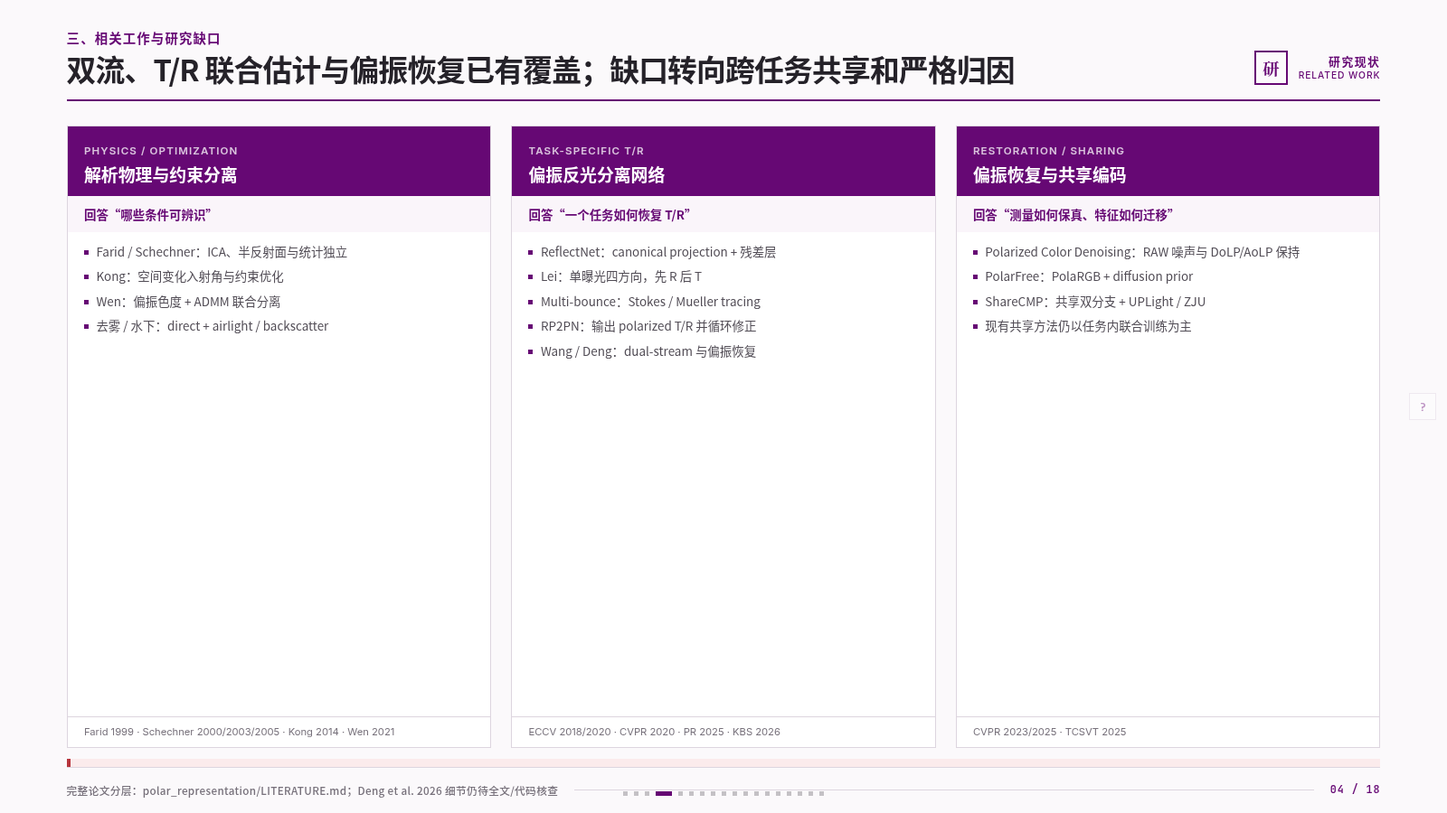
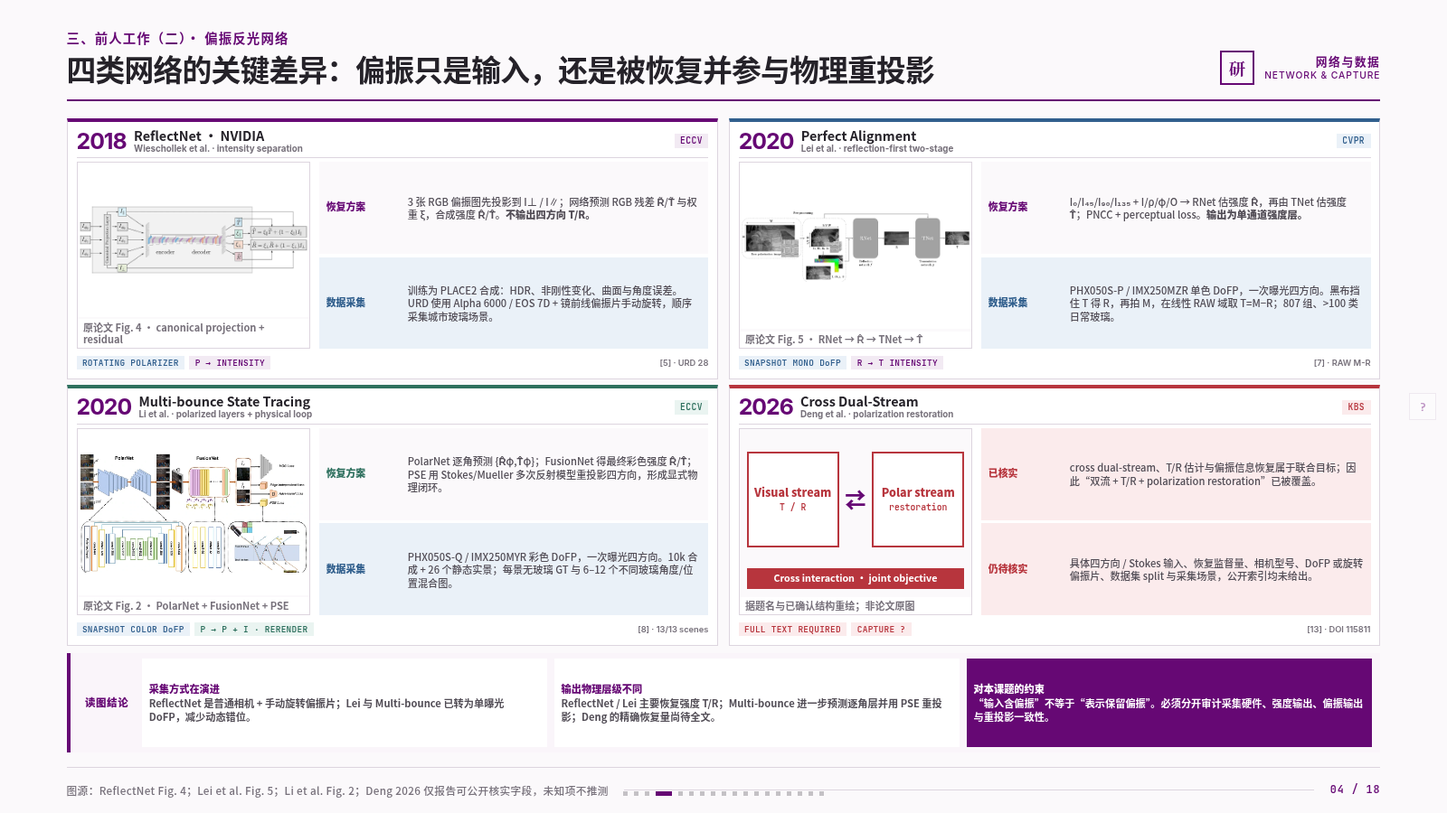
docs: compare polarized reflection networks

diff --git a/demo/tsinghua-ppt/index.html b/demo/tsinghua-ppt/index.html
@@ -485,6 +485,43 @@
   .classical-inspiration strong{font:800 clamp(11px,.72vw,14px)/1.2 var(--mono);letter-spacing:.05em}
   .classical-inspiration span{font:650 clamp(10px,.67vw,13px)/1.32 var(--sans)}
 
+  /* 04 · 偏振反光网络与数据采集 */
+  .network-work-layout{height:100%;display:grid;grid-template-columns:1fr;grid-template-rows:minmax(0,1fr) 12.2vh;gap:.9vh}
+  .network-paper-grid{min-height:0;display:grid;grid-template-columns:1fr 1fr;grid-template-rows:1fr 1fr;gap:.72vh .72vw}
+  .network-paper{min-height:0;display:grid;grid-template-rows:auto minmax(0,1fr) auto;gap:.48vh;padding:.68vh .62vw;border:1px solid var(--line);border-top:4px solid var(--accent);background:#fff}
+  .network-paper:nth-child(2){border-top-color:var(--info)}.network-paper:nth-child(3){border-top-color:var(--success)}.network-paper:nth-child(4){border-top-color:var(--danger)}
+  .network-paper-head{display:grid;grid-template-columns:auto minmax(0,1fr) auto;gap:.52vw;align-items:center;padding-bottom:.38vh;border-bottom:1px solid var(--line)}
+  .network-paper-head .year{color:var(--accent);font:800 clamp(21px,1.55vw,30px)/1 var(--sans-latin);letter-spacing:-.04em}
+  .network-paper-head h2{font:750 clamp(14px,.9vw,17px)/1.15 var(--sans);color:var(--ink)}
+  .network-paper-head p{margin-top:.16vh;color:var(--muted);font:650 clamp(9px,.61vw,11px)/1.12 var(--sans-latin)}
+  .network-paper-head .venue{padding:.36vh .4vw;background:var(--accent-soft);color:var(--accent);font:800 clamp(9px,.6vw,11px)/1 var(--mono);letter-spacing:.05em;white-space:nowrap}
+  .network-paper:nth-child(2) .venue{background:var(--info-soft);color:var(--info)}.network-paper:nth-child(3) .venue{background:var(--success-soft);color:var(--success)}.network-paper:nth-child(4) .venue{background:var(--danger-soft);color:var(--danger)}
+  .network-paper-main{min-height:0;display:grid;grid-template-columns:37% 1fr;gap:.62vw}
+  .network-method-figure{min-height:0;display:grid;grid-template-rows:minmax(0,1fr) auto;gap:.32vh;border:1px solid var(--line);background:var(--paper-soft);overflow:hidden}
+  .network-method-figure img{width:100%;height:100%;display:block;object-fit:contain;background:#fff}
+  .network-method-figure figcaption,.network-method-caption{padding:.32vh .4vw;background:#fff;color:var(--muted);font:600 clamp(11px,.69vw,13px)/1.18 var(--sans)}
+  .network-detail-stack{min-height:0;display:grid;grid-template-rows:1fr 1fr;gap:.42vh}
+  .network-detail{display:grid;grid-template-columns:5.15em 1fr;gap:.48vw;align-items:center;padding:.48vh .48vw;background:var(--paper-soft)}
+  .network-detail strong{color:var(--accent);font:800 clamp(10px,.68vw,13px)/1.2 var(--mono)}
+  .network-detail p{font:550 clamp(11px,.7vw,13px)/1.29 var(--sans);color:var(--ink-soft)}
+  .network-detail.capture{background:var(--info-soft)}.network-detail.capture strong{color:var(--info)}
+  .network-paper:nth-child(3) .network-detail:first-child strong{color:var(--success)}
+  .network-paper.deng .network-detail{background:var(--danger-soft)}.network-paper.deng .network-detail strong{color:var(--danger)}
+  .network-paper-foot{display:flex;align-items:center;gap:.32vw;min-height:2.45vh;overflow:hidden}
+  .network-chip{padding:.34vh .4vw;background:var(--accent-soft);color:var(--accent);font:800 clamp(9px,.59vw,11px)/1 var(--mono);letter-spacing:.03em;white-space:nowrap}
+  .network-chip.capture{background:var(--info-soft);color:var(--info)}.network-chip.physics{background:var(--success-soft);color:var(--success)}.network-chip.pending{background:var(--danger-soft);color:var(--danger)}
+  .network-cite{margin-left:auto;color:var(--muted);font:600 clamp(9px,.58vw,11px)/1 var(--sans-latin);white-space:nowrap}
+  .cross-stream-figure{height:100%;display:grid;grid-template-columns:1fr auto 1fr;grid-template-rows:1fr auto;gap:.52vh .42vw;align-items:center;padding:.72vh .5vw;background:var(--paper-soft)}
+  .cross-stream{height:74%;display:grid;place-items:center;align-content:center;gap:.42vh;border:2px solid var(--danger);background:#fff;text-align:center;color:var(--danger)}
+  .cross-stream strong{font:800 clamp(12px,.78vw,15px)/1.15 var(--sans)}.cross-stream span{font:700 clamp(9px,.61vw,11px)/1.15 var(--mono)}
+  .cross-stream-arrow{color:var(--accent);font:800 clamp(21px,1.45vw,28px)/1 var(--sans)}
+  .cross-stream-output{grid-column:1/4;padding:.55vh .45vw;background:var(--danger);color:#fff;text-align:center;font:750 clamp(10px,.67vw,13px)/1.2 var(--sans)}
+  .network-audit{min-height:0;display:grid;grid-template-columns:auto repeat(3,1fr);gap:.5vw;align-items:stretch;padding:.65vh .62vw;background:var(--accent-pale);border-left:4px solid var(--accent)}
+  .network-audit>strong{display:grid;place-items:center;padding:0 .4vw;color:var(--accent);font:800 clamp(11px,.72vw,14px)/1.15 var(--mono);letter-spacing:.05em}
+  .network-audit-item{display:grid;align-content:center;padding:.45vh .5vw;background:#fff;font:600 clamp(11px,.7vw,13px)/1.27 var(--sans);color:var(--ink-soft)}
+  .network-audit-item b{display:block;margin-bottom:.2vh;color:var(--accent);font-weight:800}
+  .network-audit-item:last-child{background:var(--accent);color:#fff}.network-audit-item:last-child b{color:#fff}
+
   /* 03 · 系统、协议与 Gate */
   .protocol-layout{height:100%;display:grid;grid-template-rows:auto 1fr;gap:1.15vh}
   .compact-flow{display:grid;grid-template-columns:1fr auto 1.1fr auto 1.1fr auto 1fr;gap:.55vw;align-items:stretch}
@@ -885,14 +922,17 @@
   </div></main><footer class="thu-footer"><span>原图均为学术引用节选并在 SOURCES.md 标注图号；Kong 框图为本项目依据 TPAMI 2014 方法描述重绘</span><span class="thu-footer-line"></span><span class="thu-page-no">03 / 18</span></footer></div>
 </section>
 
-<section class="slide soft" data-layout="THU04" data-animate="academic" data-slide-id="related-work-map">
-  <div class="thu-page"><header class="thu-header"><div><div class="thu-section">三、相关工作与研究缺口</div><h1 class="thu-title">双流、T/R 联合估计与偏振恢复已有覆盖；缺口转向跨任务共享和严格归因</h1></div><div class="thu-brand"><div class="thu-brand-mark">研</div><div class="thu-brand-copy"><strong>研究现状</strong><span>Related Work</span></div></div></header>
-  <main class="thu-content"><div class="research-map" data-anim>
-    <article class="research-lane"><div class="lane-head"><span>PHYSICS / OPTIMIZATION</span><h3>解析物理与约束分离</h3></div><div class="lane-cue">回答“哪些条件可辨识”</div><ul><li>Farid / Schechner：ICA、半反射面与统计独立</li><li>Kong：空间变化入射角与约束优化</li><li>Wen：偏振色度 + ADMM 联合分离</li><li>去雾 / 水下：direct + airlight / backscatter</li></ul><div class="lane-foot">Farid 1999 · Schechner 2000/2003/2005 · Kong 2014 · Wen 2021</div></article>
-    <article class="research-lane"><div class="lane-head"><span>TASK-SPECIFIC T/R</span><h3>偏振反光分离网络</h3></div><div class="lane-cue">回答“一个任务如何恢复 T/R”</div><ul><li>ReflectNet：canonical projection + 残差层</li><li>Lei：单曝光四方向，先 R 后 T</li><li>Multi-bounce：Stokes / Mueller tracing</li><li>RP2PN：输出 polarized T/R 并循环修正</li><li>Wang / Deng：dual-stream 与偏振恢复</li></ul><div class="lane-foot">ECCV 2018/2020 · CVPR 2020 · PR 2025 · KBS 2026</div></article>
-    <article class="research-lane"><div class="lane-head"><span>RESTORATION / SHARING</span><h3>偏振恢复与共享编码</h3></div><div class="lane-cue">回答“测量如何保真、特征如何迁移”</div><ul><li>Polarized Color Denoising：RAW 噪声与 DoLP/AoLP 保持</li><li>PolarFree：PolaRGB + diffusion prior</li><li>ShareCMP：共享双分支 + UPLight / ZJU</li><li>现有共享方法仍以任务内联合训练为主</li></ul><div class="lane-foot">CVPR 2023/2025 · TCSVT 2025</div></article>
-  </div><div class="callout danger" style="margin-top:1.35vh"><strong>不能再声称：</strong>双分支、同时估计 T/R、加入偏振恢复就是创新。<strong>待验证缺口：</strong>同一物理编码器冻结跨任务迁移，并通过 S₀ 重复、噪声副本、打乱 (Q,U) 与失效门控完成归因。</div></main>
-  <footer class="thu-footer"><span>完整论文分层：polar_representation/LITERATURE.md；Deng et al. 2026 细节仍待全文/代码核查</span><span class="thu-footer-line"></span><span class="thu-page-no">04 / 18</span></footer></div>
+<section class="slide soft" data-layout="THU04" data-animate="academic" data-slide-id="polarized-reflection-networks">
+  <div class="thu-page"><header class="thu-header"><div><div class="thu-section">三、前人工作（二）· 偏振反光网络</div><h1 class="thu-title">四类网络的关键差异：偏振只是输入，还是被恢复并参与物理重投影</h1></div><div class="thu-brand"><div class="thu-brand-mark">研</div><div class="thu-brand-copy"><strong>网络与数据</strong><span>NETWORK &amp; CAPTURE</span></div></div></header>
+  <main class="thu-content tight"><div class="network-work-layout research-map">
+    <div class="network-paper-grid" data-anim>
+      <article class="network-paper"><div class="network-paper-head"><span class="year">2018</span><div><h2>ReflectNet · NVIDIA</h2><p>Wieschollek et al. · intensity separation</p></div><span class="venue">ECCV</span></div><div class="network-paper-main"><figure class="network-method-figure"><img src="images/04-reflectnet-architecture.webp" data-image-slot="thu04-reflectnet" alt="ReflectNet 原论文图 4，包含 canonical projection layer、编码器解码器和残差层输出"><figcaption>原论文 Fig. 4 · canonical projection + residual</figcaption></figure><div class="network-detail-stack"><div class="network-detail"><strong>恢复方案</strong><p>3 张 RGB 偏振图先投影到 I⊥ / I∥；网络预测 RGB 残差 R̃/T̃ 与权重 ξ，合成强度 R̂/T̂。<b>不输出四方向 T/R。</b></p></div><div class="network-detail capture"><strong>数据采集</strong><p>训练为 PLACE2 合成：HDR、非刚性变化、曲面与角度误差。URD 使用 Alpha 6000 / EOS 7D + 镜前线偏振片手动旋转，顺序采集城市玻璃场景。</p></div></div></div><div class="network-paper-foot"><span class="network-chip capture">ROTATING POLARIZER</span><span class="network-chip">P → INTENSITY</span><span class="network-cite">[5] · URD 28</span></div></article>
+      <article class="network-paper"><div class="network-paper-head"><span class="year">2020</span><div><h2>Perfect Alignment</h2><p>Lei et al. · reflection-first two-stage</p></div><span class="venue">CVPR</span></div><div class="network-paper-main"><figure class="network-method-figure"><img src="images/04-lei-two-stage.webp" data-image-slot="thu04-lei-two-stage" alt="Lei 等原论文图 5，四方向偏振预处理后先经 RNet 估计反射，再经 TNet 估计透射"><figcaption>原论文 Fig. 5 · RNet → R̂ → TNet → T̂</figcaption></figure><div class="network-detail-stack"><div class="network-detail"><strong>恢复方案</strong><p>I₀/I₄₅/I₉₀/I₁₃₅ + I/ρ/φ/O → RNet 估强度 R̂，再由 TNet 估强度 T̂；PNCC + perceptual loss。<b>输出为单通道强度层。</b></p></div><div class="network-detail capture"><strong>数据采集</strong><p>PHX050S-P / IMX250MZR 单色 DoFP，一次曝光四方向。黑布挡住 T 得 R，再拍 M，在线性 RAW 域取 T=M−R；807 组、&gt;100 类日常玻璃。</p></div></div></div><div class="network-paper-foot"><span class="network-chip capture">SNAPSHOT MONO DoFP</span><span class="network-chip">R → T INTENSITY</span><span class="network-cite">[7] · RAW M-R</span></div></article>
+      <article class="network-paper"><div class="network-paper-head"><span class="year">2020</span><div><h2>Multi-bounce State Tracing</h2><p>Li et al. · polarized layers + physical loop</p></div><span class="venue">ECCV</span></div><div class="network-paper-main"><figure class="network-method-figure"><img src="images/04-multibounce-architecture.webp" data-image-slot="thu04-multibounce" alt="Multi-bounce 原论文图 2，PolarNet、FusionNet 与偏振仿真引擎构成闭环"><figcaption>原论文 Fig. 2 · PolarNet + FusionNet + PSE</figcaption></figure><div class="network-detail-stack"><div class="network-detail"><strong>恢复方案</strong><p>PolarNet 逐角预测 {R̂φ,T̂φ}；FusionNet 得最终彩色强度 R̂/T̂；PSE 用 Stokes/Mueller 多次反射模型重投影四方向，形成显式物理闭环。</p></div><div class="network-detail capture"><strong>数据采集</strong><p>PHX050S-Q / IMX250MYR 彩色 DoFP，一次曝光四方向。10k 合成 + 26 个静态实景；每景无玻璃 GT 与 6–12 个不同玻璃角度/位置混合图。</p></div></div></div><div class="network-paper-foot"><span class="network-chip capture">SNAPSHOT COLOR DoFP</span><span class="network-chip physics">P → P + I · RERENDER</span><span class="network-cite">[8] · 13/13 scenes</span></div></article>
+      <article class="network-paper deng"><div class="network-paper-head"><span class="year">2026</span><div><h2>Cross Dual-Stream</h2><p>Deng et al. · polarization restoration</p></div><span class="venue">KBS</span></div><div class="network-paper-main"><div class="network-method-figure"><div class="cross-stream-figure"><div class="cross-stream"><strong>Visual stream</strong><span>T / R</span></div><span class="cross-stream-arrow">⇄</span><div class="cross-stream"><strong>Polar stream</strong><span>restoration</span></div><div class="cross-stream-output">Cross interaction · joint objective</div></div><div class="network-method-caption">据题名与已确认结构重绘；非论文原图</div></div><div class="network-detail-stack"><div class="network-detail"><strong>已核实</strong><p>cross dual-stream、T/R 估计与偏振信息恢复属于联合目标；因此“双流 + T/R + polarization restoration”已被覆盖。</p></div><div class="network-detail"><strong>仍待核实</strong><p>具体四方向 / Stokes 输入、恢复监督量、相机型号、DoFP 或旋转偏振片、数据集 split 与采集场景，公开索引均未给出。</p></div></div></div><div class="network-paper-foot"><span class="network-chip pending">FULL TEXT REQUIRED</span><span class="network-chip pending">CAPTURE ?</span><span class="network-cite">[13] · DOI 115811</span></div></article>
+    </div>
+    <div class="network-audit" data-anim><strong>读图结论</strong><div class="network-audit-item"><b>采集方式在演进</b>ReflectNet 是普通相机 + 手动旋转偏振片；Lei 与 Multi-bounce 已转为单曝光 DoFP，减少动态错位。</div><div class="network-audit-item"><b>输出物理层级不同</b>ReflectNet / Lei 主要恢复强度 T/R；Multi-bounce 进一步预测逐角层并用 PSE 重投影；Deng 的精确恢复量尚待全文。</div><div class="network-audit-item"><b>对本课题的约束</b>“输入含偏振”不等于“表示保留偏振”。必须分开审计采集硬件、强度输出、偏振输出与重投影一致性。</div></div>
+  </div></main><footer class="thu-footer"><span>图源：ReflectNet Fig. 4；Lei et al. Fig. 5；Li et al. Fig. 2；Deng 2026 仅报告可公开核实字段，未知项不推测</span><span class="thu-footer-line"></span><span class="thu-page-no">04 / 18</span></footer></div>
 </section>
 
 <section class="slide" data-layout="THU11" data-animate="academic" data-slide-id="system-protocol">
@@ -1047,7 +1087,7 @@ const SPEAKER_NOTES = [
   {id:'cover',title:'候选新主线与当前边界',section:'开场',minutes:0.4,purpose:'交代共享偏振表示的新主线、已完成 P0–P3 和尚未训练的边界',talk:['候选主线不再是只优化一个 OCR 或去反光任务，而是学习可冻结复用的偏振表示','反光层分离是第一个源任务，水下与道路分割是下游候选','目前只完成公开数据和解析仿真的 P0–P3；没有共享编码器结果，也没有自采数据'],transition:'先说明方向如何从前期深度和识读代理演进到共享表示'},
   {id:'direction-change',title:'为什么需要偏振相机',section:'物理基础',minutes:1.8,purpose:'按“RGB 场景失效—DoFP 新观测—Fresnel 线索—BRDF 复杂度—T/R 欠定恢复”建立完整动机',talk:['先看顶部五类场景：工业高光会遮笔画，雾和水下把 direct 与散射叠加，车牌有逆反射和夜间眩光，玻璃让 transmission 与 reflection 同像素叠加；RGB 只测总强度，难区分成分','LUCID Phoenix PHX050S-QC / Sony IMX250MYR 用 Bayer 与四方向微偏振阵列一次曝光获取 I0、I45、I90、I135；经过标定和重建得到 S0、S1、S2，因此能合成任意虚拟检偏角并计算 DoLP/AoLP','Fresnel 图说明 s/p 反射系数随入射角不同，Brewster 角附近 R 的偏振线索最强；这决定图像中 R 的 DoLP 和最有利检偏角','BRDF 图说明真实 R 还由粗糙度 D、Fresnel F、遮蔽 G 和微法向分布共同决定，所以高光宽度、位置、颜色和偏振在空间上变化，不能套一个全局角度','最后观测只有三个独立 Stokes 量，而 T、R 各自至少有三个未知量；偏振增加信息但问题仍欠定，需要物理重组、数据先验和质量 q，在饱和或低 DoLP 时回退或拒绝'],transition:'下一页先看传统方法如何从 ICA 逐步加入 Fresnel、统计分布和空间变化约束',cue:'按页面从上到下、从左到右讲：五场景 → 相机 → Fresnel → BRDF → 3<6'},
   {id:'classical-reflection-separation',title:'传统偏振反光分离演进',section:'问题与文献',minutes:1.7,purpose:'用四篇代表工作说明传统路线如何从全局 ICA 逐步加入 Fresnel、统计分布和空间变化约束',talk:['Farid 与 Adelson 把两幅正交检偏图视为同一 T/R 的不同线性混合，并用 ICA 寻找统计独立源；这是最经典的“光学调制 + 盲源分离”起点','Schechner 的 ICCV 1999 工作不再让混合矩阵任意变化，而是用 Fresnel 系数把权重绑定到玻璃入射角；通过重建层去相关估计角度，并解决 ICA 的层标签歧义','JOSA A 2000 进一步考虑双表面内部反射，以互信息替代只看二阶矩的相关系数，同时系统分析噪声、角度误差和入射平面歧义','Kong 2014 使用三张相差 45 度的偏振图，把入射角和入射平面方向扩展为空间变化系数场，再通过多尺度约束优化求分离','共同边界是先验失配：T/R 相似文理或相关、低偏振与噪声、多次反射和动态错位都会破坏解析假设；对深度学习的启发不是丢掉物理，而是让网络补充局部结构与语义先验，并保留物理重组和质量门控'],transition:'传统路线已经把可辨识条件讲清楚，下一页再看深度网络如何用数据先验处理更复杂的真实场景',cue:'按顶部约束轴从左到右讲四篇工作，最后落到下方“统计 / 测量 / 模型失配”'},
-  {id:'related-work-map',title:'相关工作与研究缺口',section:'问题与文献',minutes:1.2,purpose:'按路线梳理前人工作，并避免把已有双流/T-R/偏振恢复误写成创新',talk:['传统路线从 ICA、半反射面到空间变化入射角和 ADMM，主要回答可辨识条件','任务网络已经覆盖 canonical projection、先 R 后 T、多次反射 tracing、polarized T/R、dual-stream 和 polarization restoration','PolarFree 提供大规模数据，ShareCMP 提供共享双分支与下游接口','因此候选差异必须是冻结跨任务、严格负对照归因和失效质量门控；Deng 2026 的全文细节仍需核查'],transition:'基于这个缺口，下一页给出最小方法和不允许跳过的 Gate'},
+  {id:'polarized-reflection-networks',title:'偏振反光网络与采集方案',section:'问题与文献',minutes:1.7,purpose:'同口径比较四篇网络的偏振输入、强度/偏振恢复层级，以及旋转偏振片与 DoFP 数据采集差异',talk:['ReflectNet 使用普通消费相机前的旋转线偏振片顺序拍摄三角度，通过 canonical projection 得到 I 垂直与 I 平行，再预测 RGB 强度 T/R 残差与融合权重；训练数据主要由 PLACE2 合成，URD 是城市玻璃场景实拍','Lei 2020 改用 PHX050S-P 与 IMX250MZR 单色 DoFP，一次曝光得到四方向 RAW；网络先估计强度 R，再估计强度 T，不恢复四方向 T/R','Lei 的 M-R 采集用黑布挡住透射场得到 R，再移除黑布拍 M，并在线性 RAW 域计算 T=M-R；数据包含 807 组和超过 100 种日常玻璃','Multi-bounce 使用 PHX050S-Q 与 IMX250MYR 彩色 DoFP；PolarNet 逐角预测 polarized T/R，FusionNet 输出最终彩色强度层，PSE 再用 Stokes/Mueller 多次反射模型重投影四方向；真实数据为 26 个静态场景并配合 10k 合成数据','Deng 2026 已确认 cross dual-stream、T/R 估计与 polarization restoration 联合方向，但开放索引无法核实具体输入、恢复监督、相机与采集场景；页面因此明确保留未知项'],transition:'已有网络说明“偏振输入、强度恢复、偏振恢复”必须拆开定义，下一页据此给出共享编码器的最小输出与公平 Gate',cue:'按每张卡先讲恢复方案，再讲蓝色的数据采集栏；Deng 卡只讲已核实和待核实边界'},
   {id:'system-protocol',title:'候选方法与验证协议',section:'方法与协议',minutes:1.0,purpose:'说明物理 stem、共享编码器、任务头、负对照和 Gate A0',talk:['先把四方向校准为 Stokes 与质量，再进入共享编码器；decoder 保持小且同容量','物理约束包括重投影、角度等变和层重组，不能只看 PSNR','负对照只破坏一个因素：重复 S0、噪声副本、跨样本打乱 Q,U','P0–P3 未完成前不训练；通过后也只跑轻量 pilot，不先上 diffusion'],transition:'先集中展示本轮新增的公开数据与仿真工作量'},
   {id:'workload-audit',title:'已完成资产与本轮工作量',section:'方法与协议',minutes:0.9,purpose:'区分历史资产和新主线 P0–P3 产物',talk:['旧的 SHDocs、PDD、HAMMER 不删除，但只承担协议、反例和测量资产角色','PolaRGB 远端 revision、33,055 个文件和 59/8 场景口径已经冻结','P3 已扫描反射/透射偏振、Fresnel、噪声、仪器和 MPFA；新旧测试分别 13 和 103 项通过','完整 processed 数据仍在仓库外下载，不能把 test probe 讲成 P1 final'],transition:'接下来三页用最短时间回顾旧代理实验为何仍有方法论价值'},
   {id:'e0-clean-ocr',title:'前期代理 E0 · 清晰 OCR',section:'前期代理',minutes:0.7,purpose:'保留任务格式会先决定软件上限这一前期观察',talk:['固定日期格式的清晰软件上限高，随机序列明显更低','它说明任务定义和格式约束不能在训练后补救','该页是旧工业识读代理，不是共享编码器结果'],transition:'旧代理 E1 对新主线仍直接相关：重建并不是中性预处理'},

diff --git a/demo/tsinghua-ppt/images/SOURCES.md b/demo/tsinghua-ppt/images/SOURCES.md
@@ -1,6 +1,6 @@
 # PPT 图片来源与许可
 
-以下第一组场景图片下载自 Wikimedia Commons，用于本项目学术汇报中的工业场景示意。它们不是本项目实验数据。本文档记录原文件、作者和许可；本地 WebP 仅做尺寸压缩和格式转换。第 3 页另含论文原图节选，单独记录在后表。
+以下第一组场景图片下载自 Wikimedia Commons，用于本项目学术汇报中的工业场景示意。它们不是本项目实验数据。本文档记录原文件、作者和许可；本地 WebP 仅做尺寸压缩和格式转换。第 3–4 页另含论文原图节选，单独记录在后表。
 
 | 本地文件 | 原文件与作者 | 许可 |
 |---|---|---|
@@ -15,17 +15,22 @@
 
 图注中的“Wikimedia Commons”指向本清单。后续获得自有喷码工位、工件和四方向偏振照片后，应优先替换这些场景示意图，并保留“网络示意图”和“本项目实验数据”的明确区分。
 
-## 第 3 页论文图节选
+## 第 3–4 页论文图节选
 
 以下图像只用于说明传统偏振分离方法的历史演进，均在页面内写明作者、年份、出处和图号；版权归原作者与出版方。它们不是本项目实验结果，也不用于重新评测论文性能。
 
 | 本地文件 | 原始论文与图号 | 本地处理 |
 |---|---|---|
-| `03-farid-ica.webp` | H. Farid and E. H. Adelson, *Separating Reflections from Images by Use of Independent Components Analysis*, JOSA A 16(9), 1999, [author PDF](https://hfarid.org/downloads/publications/josa99.pdf), Figs. 8–9 | 从论文图中节选两幅偏振混合观测与 ICA 输出，统一灰度、并排排版；未改变图像内容 |
+| `03-farid-ica.webp` | H. Farid and E. H. Adelson, *Separating Reflections from Images by Use of Independent Component Analysis*, JOSA A 16(9), 1999, [author PDF](https://hfarid.org/downloads/publications/josa99.pdf), Figs. 8–9 | 从论文图中节选两幅偏振混合观测与 ICA 输出，统一灰度、并排排版；未改变图像内容 |
 | `03-schechner-decorrelation.webp` | Y. Y. Schechner, J. Shamir and N. Kiryati, *Polarization-Based Decorrelation of Transparent Layers: The Inclination Angle of an Invisible Surface*, ICCV 1999, [author PDF](https://webee.technion.ac.il/people/yoav/publications/iccv99polart2.pdf), Figs. 5 and 7 | 节选检偏观测与重建层，统一灰度、并排排版；未改变图像内容 |
 | `03-schechner-mi-minima.webp` | Y. Y. Schechner, J. Shamir and N. Kiryati, *Polarization and Statistical Analysis of Scenes Containing a Semireflector*, JOSA A 17(2), 2000, [author PDF](https://webee.technion.ac.il/people/yoav/publications/polarjosa.pdf), Fig. 5 | 节选互信息曲线的极小值区域，转换为 WebP 并轻微增强投影对比度；曲线内容未改动 |
+| `04-reflectnet-architecture.webp` | P. Wieschollek et al., *Separating Reflection and Transmission Images in the Wild*, ECCV 2018, [CVF PDF](https://openaccess.thecvf.com/content_ECCV_2018/papers/Patrick_Wieschollek_Separating_Reflection_and_ECCV_2018_paper.pdf), Fig. 4 | 节选 canonical projection 与残差编码器架构，裁除正文和图注后转为 WebP；图内内容未改动 |
+| `04-lei-two-stage.webp` | C. Lei et al., *Polarized Reflection Removal With Perfect Alignment in the Wild*, CVPR 2020, [CVF PDF](https://openaccess.thecvf.com/content_CVPR_2020/papers/Lei_Polarized_Reflection_Removal_With_Perfect_Alignment_in_the_Wild_CVPR_2020_paper.pdf), Fig. 5 | 节选四方向预处理、RNet 与 TNet 两阶段架构，裁除正文和图注后转为 WebP |
+| `04-multibounce-architecture.webp` | R. Li et al., *Reflection Separation via Multi-Bounce Polarization State Tracing*, ECCV 2020, [ECVA PDF](https://www.ecva.net/papers/eccv_2020/papers_ECCV/papers/123580766.pdf), Fig. 2 | 节选 PolarNet、FusionNet 与 PSE 闭环架构，裁除页眉和正文后转为 WebP |
 
 第 3 页 Kong–Tai–Shin 卡片中的流程图为本项目依据 *A Physically-Based Approach to Reflection Separation: From Physical Modeling to Constrained Optimization*, TPAMI 36(2), 2014, DOI [`10.1109/TPAMI.2013.45`](https://doi.org/10.1109/TPAMI.2013.45) 的方法描述与公开摘要重绘，不是论文原图。
+
+第 4 页 Deng et al. 2026 卡片为本项目根据论文题名、出版元数据和已核实的 cross dual-stream / T-R / polarization-restoration 方向重绘，不是论文原图。由于没有开放全文或代码，卡片明确保留输入表示、恢复监督、相机、采集方式、数据集和场景等未知字段。
 
 ## 本项目原创示意图
 
@@ -42,7 +47,7 @@ BRDF 图均为 HTML/CSS/无文字 SVG 的本项目原创机制示意，不是相
 |---|---|---|
 | 2 | 五类 RGB 失效场景、彩色偏振相机、Stokes、Fresnel、microfacet BRDF 与 T/R 欠定 | LUCID Phoenix PHX050S-QC 产品资料、Sony IMX250MYR / Polarsens 资料、`05_polarization_camera_physical_models.md`、Born & Wolf *Principles of Optics*、Cook–Torrance / Walter 等 microfacet 模型、Schechner / ReflectNet 的半反射层模型；所有图为机制示意，4×4 单元非芯片实际相位图 |
 | 3 | Farid–Schechner–Kong 的传统偏振 T/R 分离演进、共同边界及对学习先验的启发 | 上述三张论文图节选；Farid & Adelson, JOSA A 1999；Schechner et al., ICCV 1999 / JOSA A 2000；Kong et al., TPAMI 2014；方法口径同步见 `polar_representation/LITERATURE.md` |
-| 4 | 物理分离、任务网络、偏振恢复与共享表示路线 | `polar_representation/LITERATURE.md`；Deng et al. 2026 的网络细节按“待全文核查”处理 |
+| 4 | ReflectNet、Lei 2020、Multi-bounce 与 Deng 2026 的偏振/强度恢复层级及采集方案 | 上述三张论文架构图；对应 ECCV 2018、CVPR 2020、ECCV 2020 原文；Deng et al. 2026 仅使用出版元数据与已核实方向，具体输入、监督和采集字段按“待全文核查”处理；完整审计见 `polar_representation/LITERATURE.md` |
 | 5 | 物理 stem、共享编码器、负对照与 Gate A0 | `15_shared_polarization_encoder_pretraining_controls.md` 第 10 节 |
 | 6 | PolaRGB 与 P0–P3 工作量 | `polar_representation/evidence/polargb_release_v1.json`、`p0_p3_evidence_index_v1.json`、`polar_representation/RESULTS.md` |
 | 7 | 前期代理 E0：900 张清晰合成字符 | `industrial_reading/evidence/e0_clean_code_sanity.json` |

diff --git a/demo/tsinghua-ppt/speech-script.md b/demo/tsinghua-ppt/speech-script.md
@@ -1,7 +1,7 @@
 # 周汇报演讲稿（对应 HTML PPT 18 页）
 
 - **主题：** 单曝光四方向偏振共享表示与跨任务解码方法研究。
-- **计划时长：** 演讲者备注合计 17.5 分钟，建议实际控制在 18–19 分钟。
+- **计划时长：** 演讲者备注合计 18.0 分钟，建议实际控制在 19–20 分钟。
 - **证据边界：** P0–P3 来自公开数据和解析仿真；共享编码器尚未训练；没有自采结果。
 - **用法：** 普通段落可直接讲；引用块为提醒，不念。
 
@@ -12,7 +12,7 @@
 | 1 | 封面 | 0.4 | 新主线是共享偏振编码器，但尚未训练 |
 | 2 | 为什么需要偏振相机 | 1.8 | RGB 不足→方向观测→Fresnel/BRDF→T/R 仍欠定 |
 | 3 | 传统偏振反光分离 | 1.7 | ICA→Fresnel→互信息→空间变化约束优化 |
-| 4 | 相关工作 | 1.2 | 双流、T/R、偏振恢复已有覆盖 |
+| 4 | 偏振反光网络与采集 | 1.7 | P→I 与 P→P+I 的输出物理层级不同 |
 | 5 | 方法与 Gate | 1.0 | 先冻结物理和负对照，再允许小模型 |
 | 6 | 工作量 | 0.9 | P0–P3 已有冻结产物 |
 | 7–10 | 前期代理 | 3.4 | 去马赛克和选择效应是新主线的直接约束 |
@@ -55,11 +55,21 @@ Kong、Tai 和 Shin 在 TPAMI 2014 中继续把模型从全局角度推进到空
 
 但共同问题没有消失：如果 T 与 R 具有相似纹理或本身相关，ICA、去相关和互信息都可能选错；低偏振效应会放大噪声；多张采集要求静态和配准；厚玻璃多次反射、ghosting、曲面粗糙界面、偏振照明和饱和都会造成模型失配。对深度学习的启发不是抛弃物理，而是让物理定义可行域，让网络补充局部结构和语义先验，并在不可辨识时输出质量、回退或拒绝。
 
-## 第 4 页 · 相关工作与缺口
+## 第 4 页 · 偏振反光网络与采集方案
 
-第一条路线是 ICA、半反射面、空间变化入射角和 ADMM，回答“什么时候可辨识”。第二条路线是任务专用 T/R 网络：ReflectNet、Lei、multi-bounce、RP2PN、dual-stream 和 cross dual-stream，已经覆盖双流、T/R 联合估计和偏振恢复。第三条路线是偏振去噪和共享编码，例如 PolarFree 和 ShareCMP。
+这一页统一比较四件事：偏振怎样进入网络，输出恢复的是强度还是偏振层，数据由什么硬件采集，以及场景覆盖到哪里。
 
-因此“双分支、T/R、偏振恢复”不能再当创新。剩余缺口是冻结跨任务迁移、匹配负对照归因，以及低 DoLP、饱和和 MPFA 失败时的质量门控。
+ReflectNet 使用三张相差 45 度的 RGB 偏振观测。它先通过 canonical projection layer 计算最接近平行和垂直方向的图像，再由编码器—解码器预测 reflection、transmission 的 RGB 残差和融合权重。因此它最终恢复的是可观察的强度 T/R，不是四方向 polarized T/R。训练数据由 PLACE2 图像对合成，并显式模拟动态范围、非刚性变化、曲面和手动检偏角误差；真实 URD 使用 Sony Alpha 6000 和 Canon EOS 7D，在镜头前手动旋转线偏振片，顺序采集城市玻璃反光场景。
+
+Lei 等人的 CVPR 2020 工作改为 PHX050S-P 和 IMX250MZR 单色 DoFP 偏振相机，一次曝光得到 0、45、90、135 度四方向 RAW。输入除了四方向，还包括总强度、DoLP、AoLP 和过曝掩码。第一阶段 RNet 估计单通道反射强度，第二阶段 TNet 再估计单通道透射强度，并用 PNCC 和感知损失约束。它仍然是 polarization-to-intensity，而不是恢复每个偏振角的 T/R。
+
+这篇论文的数据贡献同样重要。相机固定在三脚架上，先在玻璃后放黑布阻断 transmission，拍到 reflection R；再移除黑布拍 mixed M；最后在线性 RAW 域计算 T=M−R。这样得到 807 组、超过 100 类日常玻璃，包括门窗、平面或曲面、薄或厚、透明或有色玻璃，并避免了移除玻璃造成的折射错位。
+
+Multi-bounce 使用 PHX050S-Q 和 IMX250MYR 彩色 DoFP，一次曝光四方向。PolarNet 先对每个角度预测 polarized reflection 和 transmission；FusionNet 再融合为最终彩色强度 R/T；最后 PSE 用 Stokes、Mueller 和玻璃内多次反射模型重建四方向输入，形成物理闭环。训练包括一万组合成数据，真实数据有 26 个静态场景：每个场景先拍无玻璃偏振 GT，再改变玻璃角度和位置拍 6 到 12 组混合图，按 13/13 场景划分。
+
+Deng 2026 已能确认的是 cross dual-stream、T/R 估计和 polarization information restoration 的联合方向。但目前开放索引没有论文正文、代码或数据说明，无法可靠确认它究竟输入四方向还是 Stokes、恢复什么偏振量、使用 DoFP 还是旋转偏振片，以及数据集和场景。因此页面把这些字段明确标为待核查，而不根据标题补全。
+
+这四篇工作的核心启发是：输入中有偏振信息，不等于输出仍保留可验证的偏振物理。后续方法必须分别报告采集硬件、强度 T/R、偏振 T/R 和四方向重投影一致性。
 
 ## 第 5 页 · 候选方法与 Gate
 

diff --git a/polar_representation/LITERATURE.md b/polar_representation/LITERATURE.md
@@ -29,6 +29,18 @@
 效应下的噪声放大、多图配准，以及厚玻璃多次反射、ghosting、曲面/粗糙界面和偏振照明造成的
 模型失配。学习方法应补充局部结构和语义先验，而不是删除物理重投影与质量门控。
 
+### 1.1 偏振反光网络的恢复层级与采集审计
+
+| 工作 | 偏振输入与强度/偏振输出 | 训练数据 | 真实采集硬件与场景 |
+|---|---|---|---|
+| ReflectNet, ECCV 2018 | 3 张相差 45° 的 RGB 偏振图；canonical projection 得到 `I⊥/I∥`；网络预测 RGB 残差与权重，输出可观察的强度 `T/R`，不输出四方向 polarized `T/R` | PLACE2 图像对合成；模拟 HDR 动态范围、edge-aware reflection、非刚性变化、曲面和手动检偏角误差 | URD 约 28 个高分辨率 RAW 城市半反射场景；Sony Alpha 6000 / Canon EOS 7D + 镜前线偏振片手动旋转，三方向顺序采集 |
+| Lei et al., CVPR 2020 | 四方向 RAW + intensity/DoLP/AoLP/过曝掩码；RNet 先估计单通道强度 `R`，TNet 再估计单通道强度 `T`；不恢复逐角 `T/R` | 807 组真实 M-R 数据，超过 100 类玻璃 | LUCID PHX050S-P + Sony IMX250MZR 单色 DoFP，单曝光四方向；黑布挡住透射得到 `R`，再拍 `M`，在线性 RAW 域计算 `T=M−R`；日常门窗及平面/曲面、薄/厚、有色/无色玻璃 |
+| Multi-bounce, ECCV 2020 | PolarNet 逐角预测 `{Tφ,Rφ}`；FusionNet 输出最终彩色强度 `T/R`；PSE 用 Stokes/Mueller 多次反射模型重建四方向输入 | 10,000 组合成混合图 + 13 个真实训练场景 | LUCID PHX050S-Q + Sony IMX250MYR 彩色 DoFP，单曝光四方向；26 个静态场景，每景一组无玻璃偏振 GT 与 6–12 组不同玻璃角度/位置混合图，13/13 划分 |
+| Deng et al., KBS 2026 | 已确认 cross dual-stream、`T/R` 估计与 polarization restoration 联合方向；具体输入和偏振恢复监督尚未开放核实 | 数据集、split 和损失待全文 | 相机型号、DoFP/旋转偏振片、采集场景均待全文，不推测 |
+
+因此需要严格区分三种主张：`polarization-to-intensity`、`polarization-to-polarization`，以及带四方向
+重投影的物理闭环。仅把四方向图送入网络，并不能证明输出或潜表示保留了偏振物理。
+
 ## 2. 必须补入的直接竞争工作
 
 ### 2.1 Wang, Zhang & Chen：Dual-stream attention guidance
